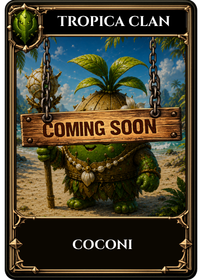
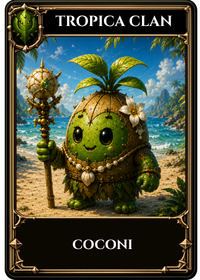
Add Tropica Clan artwork and make it selectable
- 18 new art assets (balloon, camel, 8 card forms, 8 character forms)
- Register all keys in asset manifest
- Unlock Tropica Clan on the clan selection screen

diff --git a/src/assets/manifest.ts b/src/assets/manifest.ts
@@ -70,6 +70,7 @@ export const ASSETS: Record<string, AssetEntry> = {
   balloon: { kind: 'svg', generate: (opts) => balloonSvg(opts as BalloonOptions) },
   'balloon.prickling': { kind: 'image', src: '/art/balloon-prickling-clan.png' },
   'balloon.metal': { kind: 'image', src: '/art/balloon-metal-clan.png' },
+  'balloon.tropica': { kind: 'image', src: '/art/balloon-tropica-clan.png' },
   // SHARED across levels — used by L1 (Balloon), L4 (Cactus Care), L8 (Desert
   // Dash boss spikes) and Versus. Repoint with care; changes hit every one.
   'cactus.spike': { kind: 'image', src: '/art/cactus-spike.png' },
@@ -77,6 +78,7 @@ export const ASSETS: Record<string, AssetEntry> = {
   'cactus.spike.game6': { kind: 'image', src: '/art/game6-cactus-dart.png' },
   'camel.prickling': { kind: 'image', src: '/art/camel-prickling-clan.png' },
   'camel.metal': { kind: 'image', src: '/art/camel-metal-clan.png' },
+  'camel.tropica': { kind: 'image', src: '/art/camel-tropica-clan.png' },
   'card.frame': { kind: 'svg', generate: (opts) => clanCardSvg(opts as ClanCardOptions) },
   'card.prickling.1': { kind: 'image', src: '/art/card-prickling-clan-form1.png' },
   'card.prickling.2': { kind: 'image', src: '/art/card-prickling-clan-form2.png' },
@@ -95,6 +97,13 @@ export const ASSETS: Record<string, AssetEntry> = {
   'card.metal.1': { kind: 'image', src: '/art/card-metal-clan-form1.png' },
   'card.oasis.1': { kind: 'image', src: '/art/card-oasis-clan-form1.png' },
   'card.tropica.1': { kind: 'image', src: '/art/card-tropica-clan-form1.png' },
+  'card.tropica.2': { kind: 'image', src: '/art/card-tropica-clan-form2.png' },
+  'card.tropica.3': { kind: 'image', src: '/art/card-tropica-clan-form3.png' },
+  'card.tropica.4': { kind: 'image', src: '/art/card-tropica-clan-form4.png' },
+  'card.tropica.5': { kind: 'image', src: '/art/card-tropica-clan-form5.png' },
+  'card.tropica.6': { kind: 'image', src: '/art/card-tropica-clan-form6.png' },
+  'card.tropica.7': { kind: 'image', src: '/art/card-tropica-clan-form7.png' },
+  'card.tropica.8': { kind: 'image', src: '/art/card-tropica-clan-form8.png' },
   'card.wildfire.1': { kind: 'image', src: '/art/card-wildfire-clan-form1.png' },
   'landing-card.prickling.1': { kind: 'image', src: '/art/menu/card-prickling-clan-form1.png' },
   'landing-card.duskerns.1': { kind: 'image', src: '/art/menu/card-duskerns-clan-form1.png' },
@@ -144,6 +153,14 @@ export const ASSETS: Record<string, AssetEntry> = {
   'character.metal.6': { kind: 'image', src: '/art/iridium-champion-metal-clan-form6.png' },
   'character.metal.7': { kind: 'image', src: '/art/auroraforge-metal-clan-form7.png' },
   'character.metal.8': { kind: 'image', src: '/art/ancient-pricklord-metal-clan-form8.png' },
+  'character.tropica.1': { kind: 'image', src: '/art/coconi-tropica-clan-form1.png' },
+  'character.tropica.2': { kind: 'image', src: '/art/pinebud-tropica-clan-form2.png' },
+  'character.tropica.3': { kind: 'image', src: '/art/mangolo-tropica-clan-form3.png' },
+  'character.tropica.4': { kind: 'image', src: '/art/papayo-tropica-clan-form4.png' },
+  'character.tropica.5': { kind: 'image', src: '/art/banoni-tropica-clan-form5.png' },
+  'character.tropica.6': { kind: 'image', src: '/art/kiwini-tropica-clan-form6.png' },
+  'character.tropica.7': { kind: 'image', src: '/art/dragonpalm-tropica-clan-form7.png' },
+  'character.tropica.8': { kind: 'image', src: '/art/watermelord-tropica-clan-form8.png' },
   'hit.splat': { kind: 'svg', generate: (opts) => hitSplatSvg(opts as HitSplatOptions) },
   'lizard.up': { kind: 'svg', generate: (opts) => lizardSvg({ ...(opts as LizardOptions), pose: 'up' }) },
   'lizard.down': { kind: 'svg', generate: (opts) => lizardSvg({ ...(opts as LizardOptions), pose: 'down' }) },

diff --git a/src/shell/ClanSelect.tsx b/src/shell/ClanSelect.tsx
@@ -51,7 +51,7 @@ export function ClanSelect() {
             formName: form1?.name ?? 'Form 1',
             formNumber: 1,
           });
-          const selectable = clan.name === 'Prickling Clan' || clan.name === 'Metal Clan';
+          const selectable = clan.name === 'Prickling Clan' || clan.name === 'Metal Clan' || clan.name === 'Tropica Clan';
           return (
             <div
               key={clan.name}